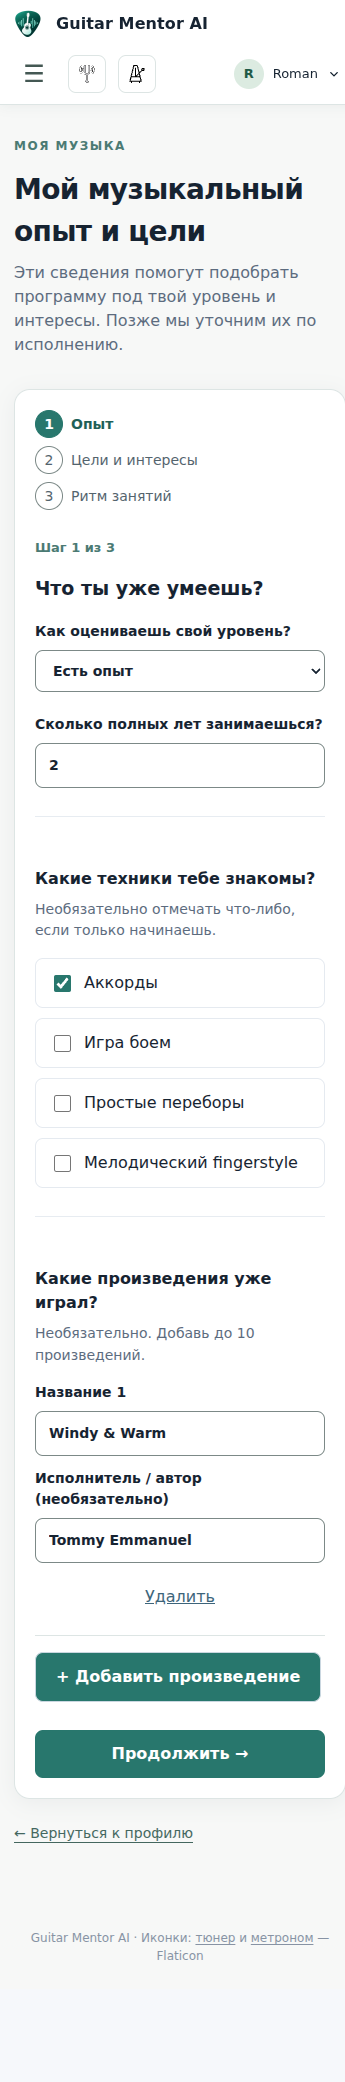
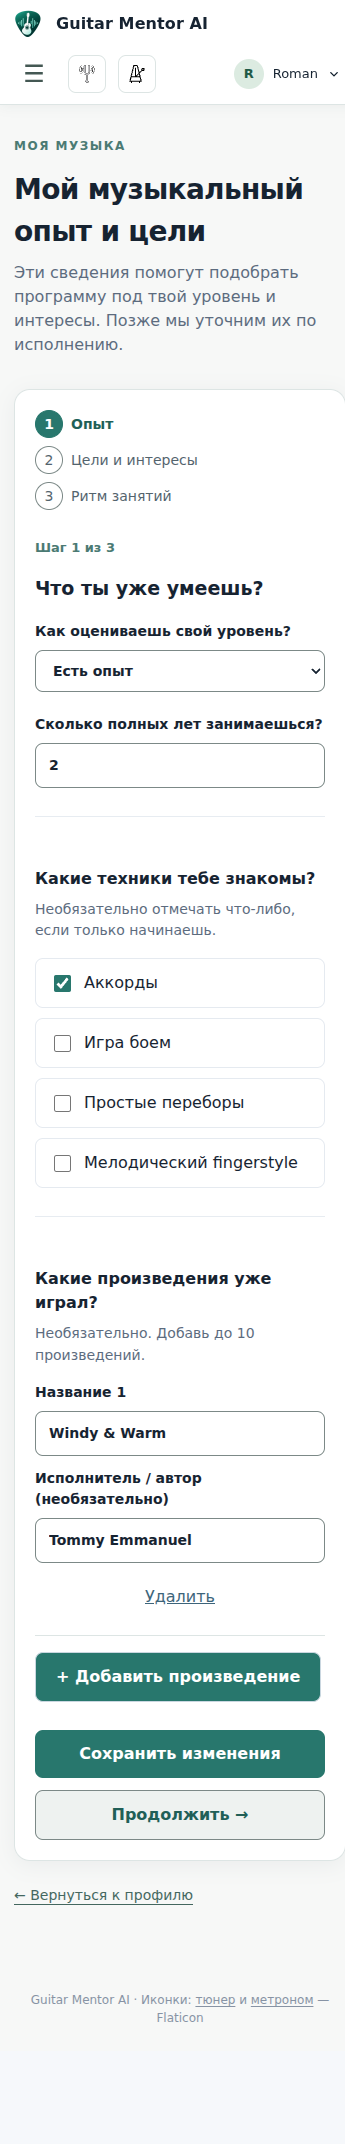
fix(onboarding): make saving explicit on each questionnaire step (#229)

diff --git a/frontend/src/entities/onboarding/OnboardingView.vue b/frontend/src/entities/onboarding/OnboardingView.vue
@@ -55,7 +55,7 @@ function resetForm(): void {
   failedRead.value = false;
   error.value = null;
   localValidation.value = false;
-  saved.value = false;
+  saved.value = false; savedConfirmation.value = false;
   summary.value = null; nextError.value = null; ++nextGeneration;
 }
 const errorMessage = computed(() => localValidation.value ? t('profileUx.invalidAnswers') : error.value ? t(apiFailureKey(error.value)) : '');
@@ -69,6 +69,7 @@ watch(() => (secureUi ? auth.actor?.accountId ?? '' : '') + ':' + (learnerStore.
   if (learnerStore.learner && active) void loadBackground();
 });
 const saved = ref(false);
+const savedConfirmation = ref(false);
 const experienceLevel = ref<ExperienceLevel>('BEGINNER');
 const yearsPlaying = ref(0);
 const skills = ref<SkillTag[]>([]);
@@ -155,11 +156,11 @@ async function resolveNext(): Promise<void> {
 }
 function addPiece(): void {
   if (knownPieces.value.length >= 10) return;
-  knownPieces.value.push({ title: '', artist: '' }); edited.value = true;
+  knownPieces.value.push({ title: '', artist: '' }); edited.value = true; savedConfirmation.value = false;
   void nextTick(() => Array.from(document.querySelectorAll<HTMLInputElement>('[data-piece-title]')).at(-1)?.focus());
 }
 function removePiece(index: number): void {
-  knownPieces.value.splice(index, 1); edited.value = true;
+  knownPieces.value.splice(index, 1); edited.value = true; savedConfirmation.value = false;
   void nextTick(() => addPieceButton.value?.focus?.());
 }
 function validStep(): boolean {
@@ -170,21 +171,27 @@ function validStep(): boolean {
   return true;
 }
 function nextStep(): void {
+  if (saving.value) return;
   localValidation.value = !validStep();
   if (!localValidation.value && step.value < 3) { step.value = (step.value + 1) as 2 | 3; focusHeading(); }
 }
-function backStep(): void { if (step.value > 1) step.value = (step.value - 1) as 1 | 2; localValidation.value = false; focusHeading(); }
+function backStep(): void { if (saving.value) return; if (step.value > 1) step.value = (step.value - 1) as 1 | 2; localValidation.value = false; focusHeading(); }
 function focusHeading(): void { void nextTick(() => heading.value?.focus?.()); }
 function editAgain(): void { ++nextGeneration; resolvingNext.value = false; saved.value = false; step.value = 1; summary.value = null; focusHeading(); }
 
-async function save(): Promise<void> {
+async function save(complete = true): Promise<void> {
   if (!maySave.value || !learnerStore.learner) return;
-  saved.value = false;
+  saved.value = false; savedConfirmation.value = false;
   failedRead.value = false;
   error.value = null;
   localValidation.value = false;
   const pieces = knownPieces.value.map(piece => ({ title: piece.title.trim(), artist: piece.artist.trim() }));
-  if (!validStep() || !Number.isInteger(yearsPlaying.value) || yearsPlaying.value < 0 || yearsPlaying.value > 60 || pieces.length > 10 || pieces.some(piece => !piece.title || piece.title.length > 120 || piece.artist.length > 120)) {
+  // Every save writes the complete API object, even when initiated on an earlier step.
+  if (!Number.isInteger(yearsPlaying.value) || yearsPlaying.value < 0 || yearsPlaying.value > 60
+    || !Number.isInteger(practiceMinutes.value) || practiceMinutes.value < 10 || practiceMinutes.value > 120
+    || !Number.isInteger(sessionsPerWeek.value) || sessionsPerWeek.value < 1 || sessionsPerWeek.value > 7
+    || notes.value.length > 1000 || pieces.length > 10
+    || pieces.some(piece => !piece.title || piece.title.length > 120 || piece.artist.length > 120)) {
     localValidation.value = true;
     return;
   }
@@ -209,9 +216,12 @@ async function save(): Promise<void> {
     if (!active || currentSave !== saveGeneration || learnerStore.learner?.id !== learnerId || (secureUi && auth.actor?.accountId !== actorId)) return;
     if (result) apply(result);
     edited.value = false;
-    saved.value = true;
-    focusHeading();
-    void resolveNext();
+    savedConfirmation.value = true;
+    if (complete) {
+      saved.value = true;
+      focusHeading();
+      void resolveNext();
+    }
   } catch (cause) {
     if (active && currentSave === saveGeneration && learnerStore.learner?.id === learnerId && (!secureUi || auth.actor?.accountId === actorId))
       error.value = asApiFailure(cause);
@@ -237,7 +247,7 @@ async function save(): Promise<void> {
       <RouterLink v-else-if="summary" :to="nextTarget" class="action-button primary-link">{{ nextLabel }} →</RouterLink>
       <div class="form-actions"><button type="button" class="text-button" @click="editAgain">{{ t('profileUx.editAnswers') }}</button><RouterLink to="/profile">{{ t('onboarding.profileBack') }}</RouterLink></div>
     </section>
-    <form v-else class="panel" @input="edited = true" @change="edited = true" @submit.prevent="step < 3 ? nextStep() : save()">
+    <form v-else class="panel" @input="edited = true; savedConfirmation = false" @change="edited = true; savedConfirmation = false" @submit.prevent="step < 3 ? nextStep() : save()">
       <ol class="wizard-steps" :aria-label="t('profileUx.stepsLabel')"><li v-for="(label, index) in ['experience', 'goals', 'rhythm']" :key="label" :aria-current="step === index + 1 ? 'step' : undefined" :class="{ current: step === index + 1, done: step > index + 1 }"><span>{{ index + 1 }}</span>{{ t('profileUx.steps.' + label) }}</li></ol>
       <p class="step-indicator">{{ t('onboarding.step', { step, total: 3 }) }}</p>
       <fieldset class="plain-fieldset" :disabled="saving">
@@ -260,7 +270,13 @@ async function save(): Promise<void> {
           <p class="hint">{{ t('profileUx.rhythmHint') }}</p>
           <div class="form-grid"><label class="field"><span>{{ t('onboarding.practiceMinutes') }}</span><input v-model.number="practiceMinutes" type="number" min="10" max="120" required /></label><label class="field"><span>{{ t('onboarding.sessionsPerWeek') }}</span><input v-model.number="sessionsPerWeek" type="number" min="1" max="7" required /></label></div>
         </template>
-        <div class="form-actions"><button v-if="step > 1" type="button" class="action-button secondary-button" @click="backStep">← {{ t('onboarding.back') }}</button><button v-if="step < 3" type="submit" class="wizard-next">{{ t('onboarding.next') }} →</button><button v-else type="submit" :disabled="!maySave">{{ saving ? t('form.saving') : t('onboarding.save') }}</button></div>
+        <div class="form-actions wizard-actions">
+          <button v-if="step > 1" type="button" class="text-button" @click="backStep">← {{ t('onboarding.back') }}</button>
+          <button v-if="step < 3" type="button" class="action-button" :disabled="!maySave" :aria-busy="saving" @click="save(false)">{{ saving ? t('form.saving') : t('onboarding.saveChanges') }}</button>
+          <button v-if="step < 3" type="submit" class="action-button secondary-button wizard-next">{{ t('onboarding.next') }} →</button>
+          <button v-else type="submit" :disabled="!maySave" :aria-busy="saving">{{ saving ? t('form.saving') : t('onboarding.save') }}</button>
+        </div>
+        <p v-if="savedConfirmation" class="saved-confirmation" role="status">✓ {{ t('form.saved') }}</p>
       </fieldset>
       <p v-if="error || localValidation" class="error" role="alert">{{ errorMessage }}</p>
       <div v-if="needsReadResolution" class="notice" role="alert"><p>{{ t('onboarding.draftConflict') }}</p><button type="button" class="action-button secondary-button" @click="acceptServerBackground">{{ t('onboarding.loadServerBackground') }}</button></div>

diff --git a/frontend/src/assets/learner-experience.css b/frontend/src/assets/learner-experience.css
@@ -47,3 +47,11 @@
 }
 
 .learner-experience h2[tabindex="-1"]:focus { outline: none; }
+
+/* The wizard distinguishes persistence from navigation on every step. */
+.app-shell .learner-experience .wizard-actions .secondary-button {
+  background: #eef2f0; color: #205f57; border: 1px solid #7c8987;
+}
+.app-shell .learner-experience .wizard-actions .secondary-button:hover:not(:disabled) {
+  background: #dfece6; color: #205f57;
+}

diff --git a/docs/testing/issue-229-profile-onboarding-ux.md b/docs/testing/issue-229-profile-onboarding-ux.md
@@ -9,7 +9,7 @@
 - `/settings/account`: существующая смена пароля и подключение способов входа вынесены из профиля. Способы входа показываются только после успешного валидного ответа API. Ошибка чтения предлагает retry и не открывает формы на основании предположений.
 - `/onboarding`: опыт → цели и интересы → ритм занятий. Произведения вводятся отдельными полями, до 10, без парсинга `|`; название обязательно, исполнитель необязателен. Лимиты сохранены из `OnboardingDtos`.
 - Черновик анкеты хранится в памяти, сохраняется при переходах назад. При выходе предлагается остаться или отказаться; refresh/tab close использует native beforeunload. Ошибки GET не открывают запись; read/draft conflict требует явной загрузки серверной версии. Ошибка PUT сохраняет ввод, двойное сохранение блокируется.
-- После сохранения показывается завершение с одной основной CTA, рассчитанной существующим `resolveHomeSummary`. Retry следующего шага не повторяет PUT. Редактирование анкеты не создаёт новую диагностическую сессию и не меняет историю попыток.
+- На шагах 1 и 2 есть отдельная кнопка «Сохранить изменения»: сохраняет всю текущую анкету без перехода и показывает подтверждение рядом с действием. «Продолжить» только переключает шаг. После финального сохранения на шаге 3 показывается завершение с одной основной CTA, рассчитанной существующим `resolveHomeSummary`. Retry следующего шага не повторяет PUT. Редактирование анкеты не создаёт новую диагностическую сессию и не меняет историю попыток.
 - «Навыки»: самооценка анкеты отдельно; реальные `OBSERVED`/`MEASURED` из существующего skillMap API выводятся с источником. Самооценка не означает подтверждения, проценты и новые уровни не генерируются. Ошибка получения наблюдений отличается от пустого результата.
 - Смена ученика/аккаунта инвалидирует поздние ответы и очищает черновик. Старые `/profile#authAction=link` письма совместимы: маршрут перенаправляется, секрет удаляется из URL до запуска роутера, не попадает в поле или storage.
 - Новые строки RU/EN; внутренние DEV/MVP/PostgreSQL подписи убраны из затронутых экранов и footer. Breakpoint шапки скорректирован: навигация больше не перекрывается инструментами на 1440.
@@ -39,13 +39,14 @@ Java/API/БД и миграции не менялись.
 | UX229-15 | Deep links/F5 `/profile`, `/onboarding`, `/settings/account` | PASS в Vite SPA с настоящим роутером и AuthGate |
 | UX229-16 | RU/EN × 360/768/1440; labels, Tab, фокус, effective 200% reflow (384 px для 768 px) | PASS, горизонтального overflow нет; видимые основные действия, screenshots |
 | UX229-17 | Self-report, реальное OBSERVED/MEASURED, отсутствие наблюдений | PASS, источники разделены; неподтверждённый self-report не попадает в наблюдения |
+| UX229-A01 | Явное Save changes на шагах 1/2, двойной клик, failed GET/PUT, сохранение всего объекта | PASS, текущий шаг сохраняется; resolver вызывается только после финального сохранения; скрытые поля также валидируются |
 | UX229-18 | Регрессия нотного viewer, выбора следующего урока, истории попыток | PASS, три существующих Chromium suite |
 
 Результаты команд:
 
 | Команда | Результат |
 | --- | --- |
-| `npm test` | 192 PASS, 0 FAIL |
+| `npm test` | 195 PASS, 0 FAIL |
 | `npm run test:intake` | 55 PASS, 0 FAIL |
 | `npm run test:tuner` | 40 PASS, 0 FAIL |
 | `npm run build` | PASS |
@@ -106,3 +107,13 @@ npm run test:profile-browser
 - Визуальная приёмка владельцем, необходимая для merge/закрытия по регламенту.
 
 До приёмки Issue открыта, PR не сливается. После кода и зелёного CI: `Тестирование / В очереди`; оставшиеся реальные сценарии и визуальная приёмка перечислены выше. GitHub-коннектор не предоставляет запись Project v2: фактическая доска не обновлялась, требуемый переход зафиксирован в Issue.
+
+## Приёмочное исправление UX229-A01 — 26.10.2026
+
+Владелец на реальном dev-экране первого шага не увидел явного сохранения: была только кнопка «Продолжить». Добавлено «Сохранить изменения» на шагах 1 и 2, сохранение оставляет текущий шаг и показывает подтверждение. Финальное сохранение сохраняет прежнее завершение с next action.
+
+При сохранении раннего шага валидируется вся отправляемая анкета; read/conflict gates, сохранение ввода при ошибке и блокировка повторного запроса сохранены. Подтверждение снимается при изменении полей, добавлении/удалении произведения.
+
+Добавлены три сценарных теста; `npm test` — 195 PASS. Повторный Chromium suite проверил новые кнопки на двух шагах и RU/EN × 360/768/1440. Обе сборки прошли. Авторское ревью исправления: блокирующих замечаний нет. Пользовательская приёмка исправления ещё не получена.
+
+[Сохранение на шаге 1 и подтверждение](qa229/onboarding-save-step1-1440-ru.png).

diff --git a/docs/reviews/issue-229-profile-ux-review.md b/docs/reviews/issue-229-profile-ux-review.md
@@ -5,3 +5,5 @@
 Подробные замечания, исправления, исполненные тесты, ограничения и скриншоты: [отчёт #229](../testing/issue-229-profile-onboarding-ux.md).
 
 Это авторское техническое ревью; независимое одобрение PR не имитировалось.
+
+Приёмочный дефект UX229-A01 исправлен в том же PR: явное сохранение на шагах 1/2 без перехода, валидация полного API-объекта, сброс устаревшего success при изменении произведений. Добавлены сценарные проверки, повторно просмотрены desktop/mobile скриншоты; `npm test` — 195 PASS. Пользовательская приёмка исправления остаётся открытой.
